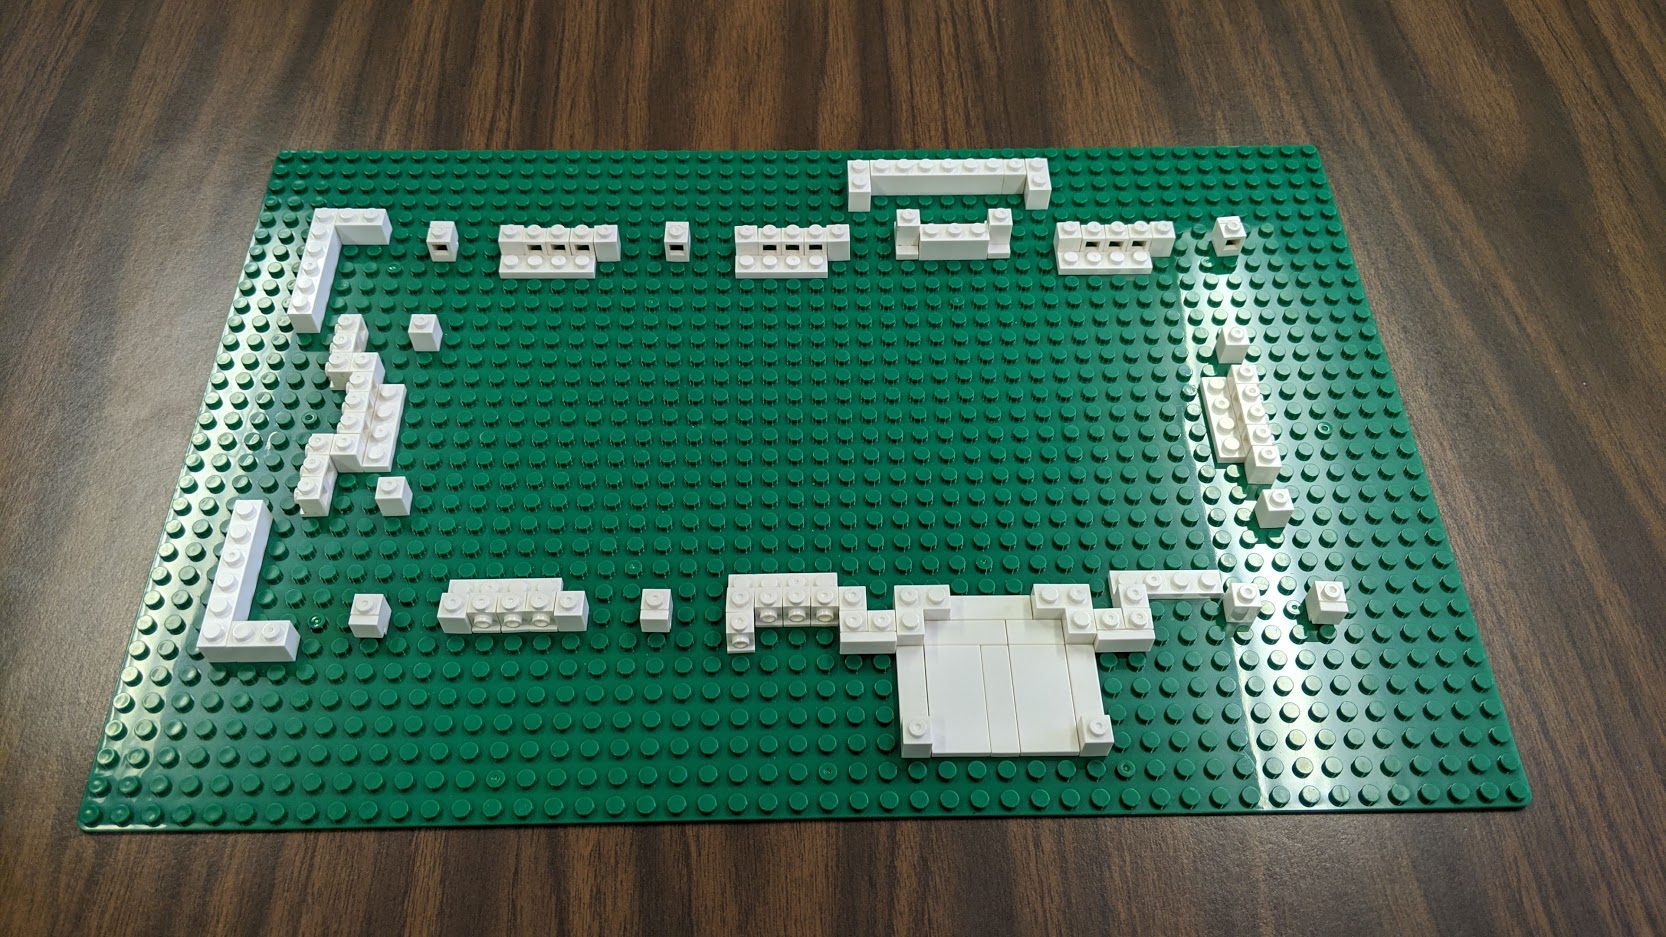
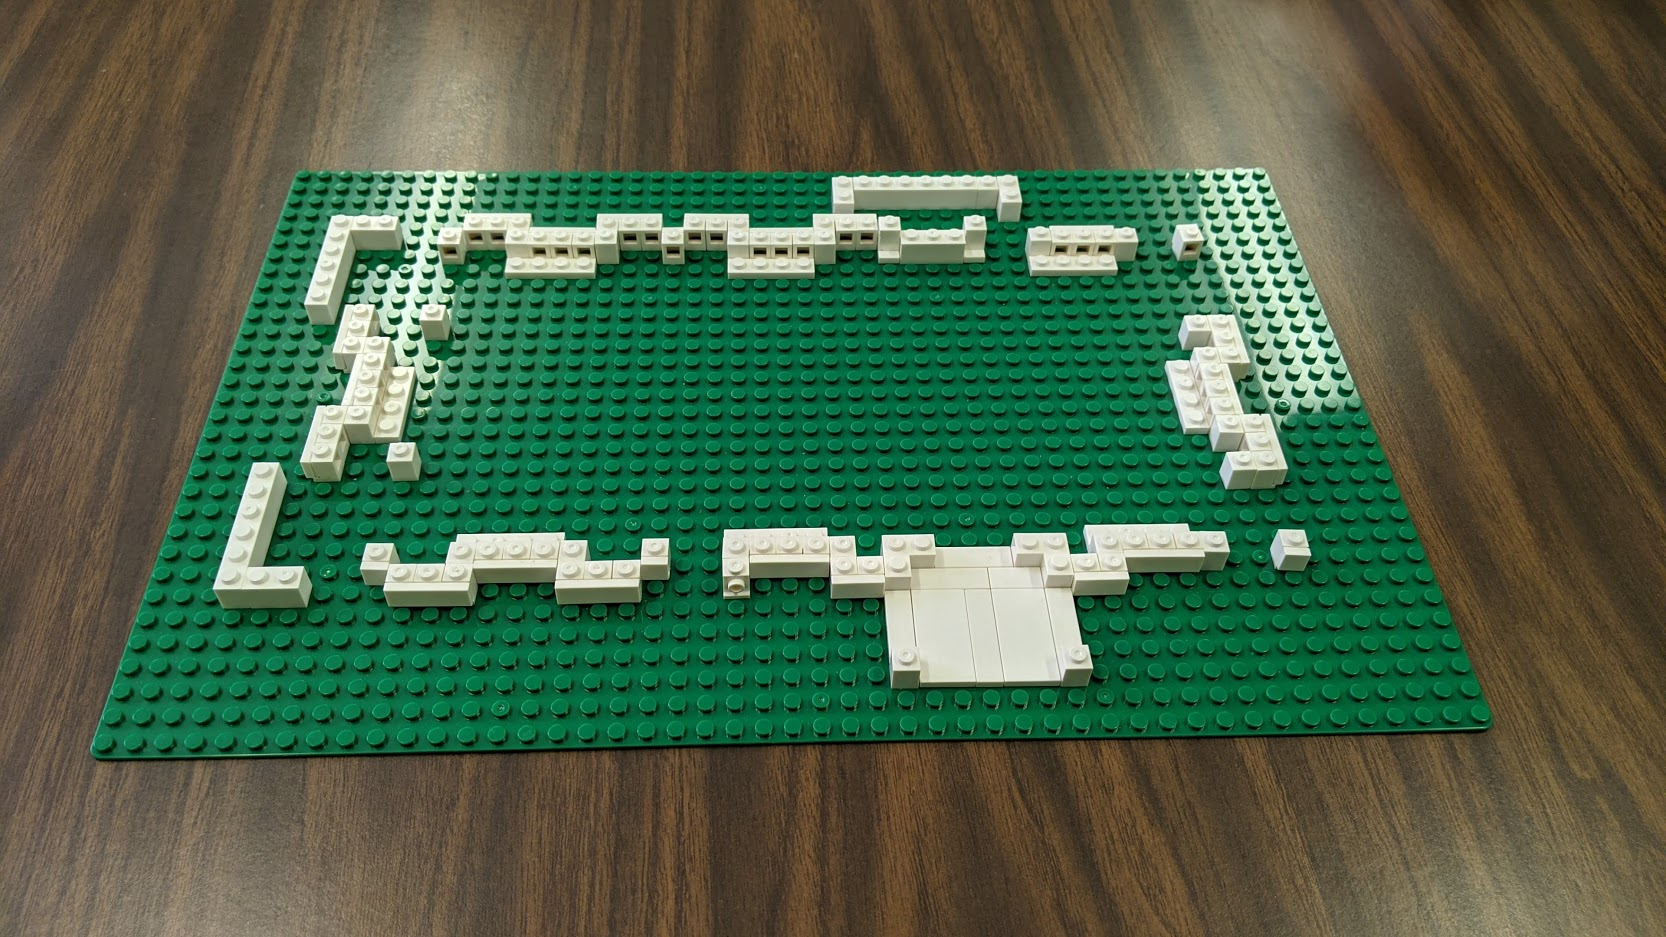
Feb. 14 progress update

diff --git a/index.html b/index.html
@@ -200,14 +200,34 @@
 
       <div class="progress hidden">
          <div class="title">
-            <h1>We are currently <span id="percentage"></span> complete!</h1>
+            <h1>The temple is only <span id="percentage"></span> complete!</h1>
          </div>
          <div id="area1">
             <img src="images/progress.jpg" width="100%" alt="current progress of the model of the Temple">
          </div>
          <div id="area2">
             <h3>"Family history... is a vital part of the work of salvation and exaltation. You have been prepared for this day to build up the kingdom of God. You are here upon the earth now to assist in this glorious work."</h3>
-            <p>-Elder David A. Bednar&emsp; </p>
+            <p>-Elder David A. Bednar&emsp; &emsp; </p>
+            <br>
+            <hr>
+            <br>
+            <h3>Last Weeks Top Contributors:</h3>
+            <ol class="topContrib">
+               <li> The Jurrus Family</li>
+               <li> The Weight Family</li>
+               <li> The Jackson Family</li>
+            </ol>
+            <br>
+            <hr>
+            <br>
+            <h3>Overall Top Contributors:</h3>
+            <ol class="topContrib">
+               <li> The Weight Family</li>
+               <li> THe Nay Family</li>
+               <li> The Jurrus Family</li>
+               <li> The M<sup>c</sup>Coard Family</li>
+               <li> The Harris Family</li>
+            </ol>
          </div>
       </div>
    </main>

diff --git a/js/main.js b/js/main.js
@@ -73,7 +73,7 @@ submitBtn.addEventListener('click', (e) => {
 
 function progressCalculator(){
    // add a + and the number of bricks earned for each week to the line below
-   const numBricks = 4 + 5 + 2 + 7 + 3 + 5 + 2 + 73;
+   const numBricks = 4 + 5 + 2 + 7 + 3 + 5 + 2 + 73 + 45;
    let progressPer = Math.round((numBricks / 1086) * 1000)/10;
    console.log(progressPer.toFixed(1));
    return progressPer.toFixed(1);

diff --git a/styles/styles.css b/styles/styles.css
@@ -341,6 +341,12 @@ input[type=submit]:hover {
   text-align: right;
 }
 
+.topContrib {
+  padding-top: 10px;
+  margin-left: 40px;
+  line-height: 1.4;
+}
+
 footer {
   text-align: center;
   font-family: 'Hind Siliguri', sans-serif;
